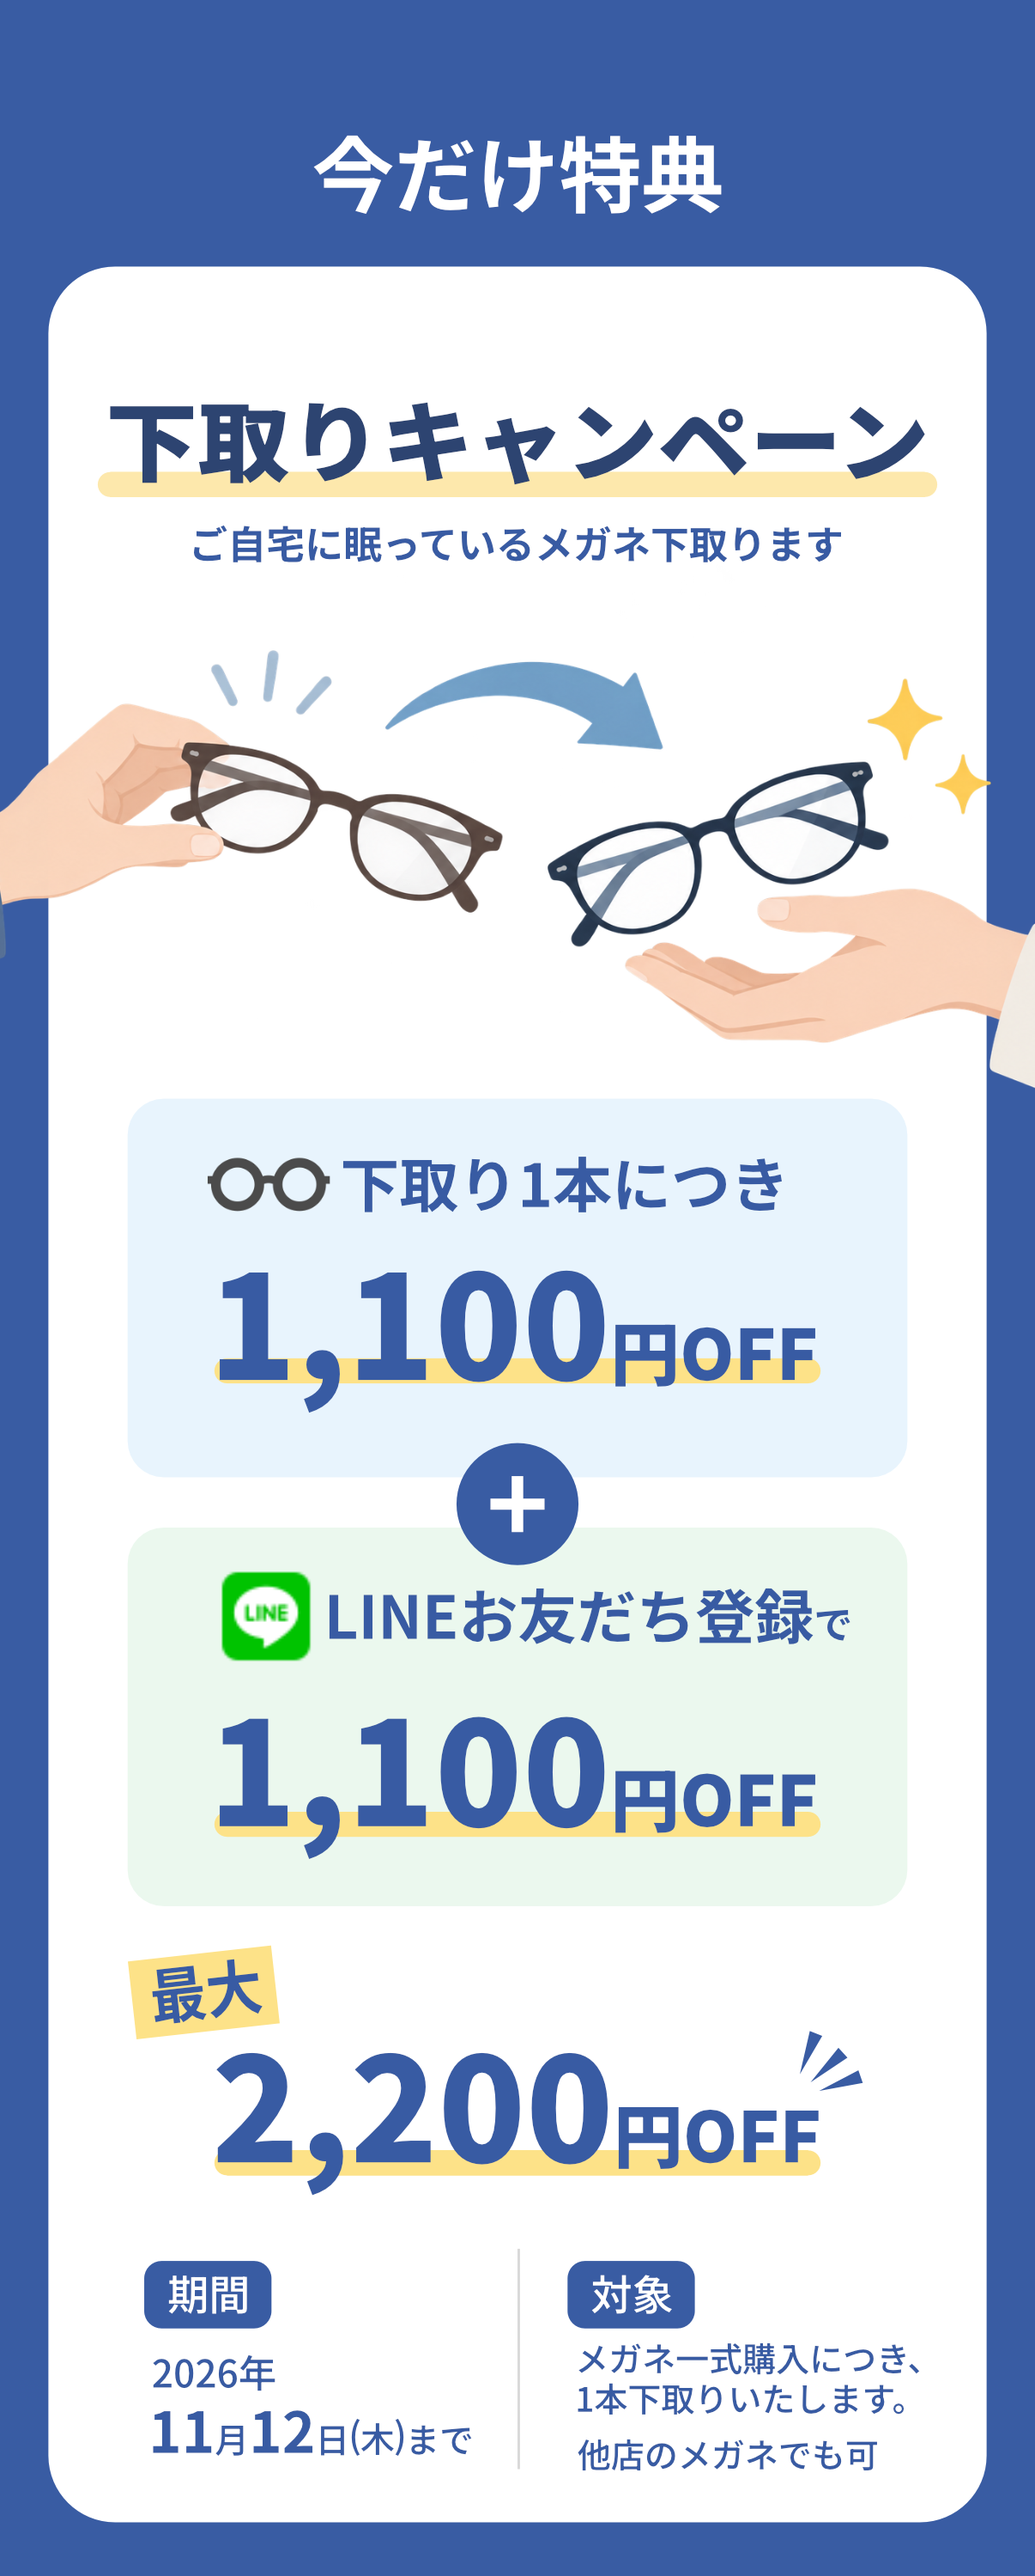
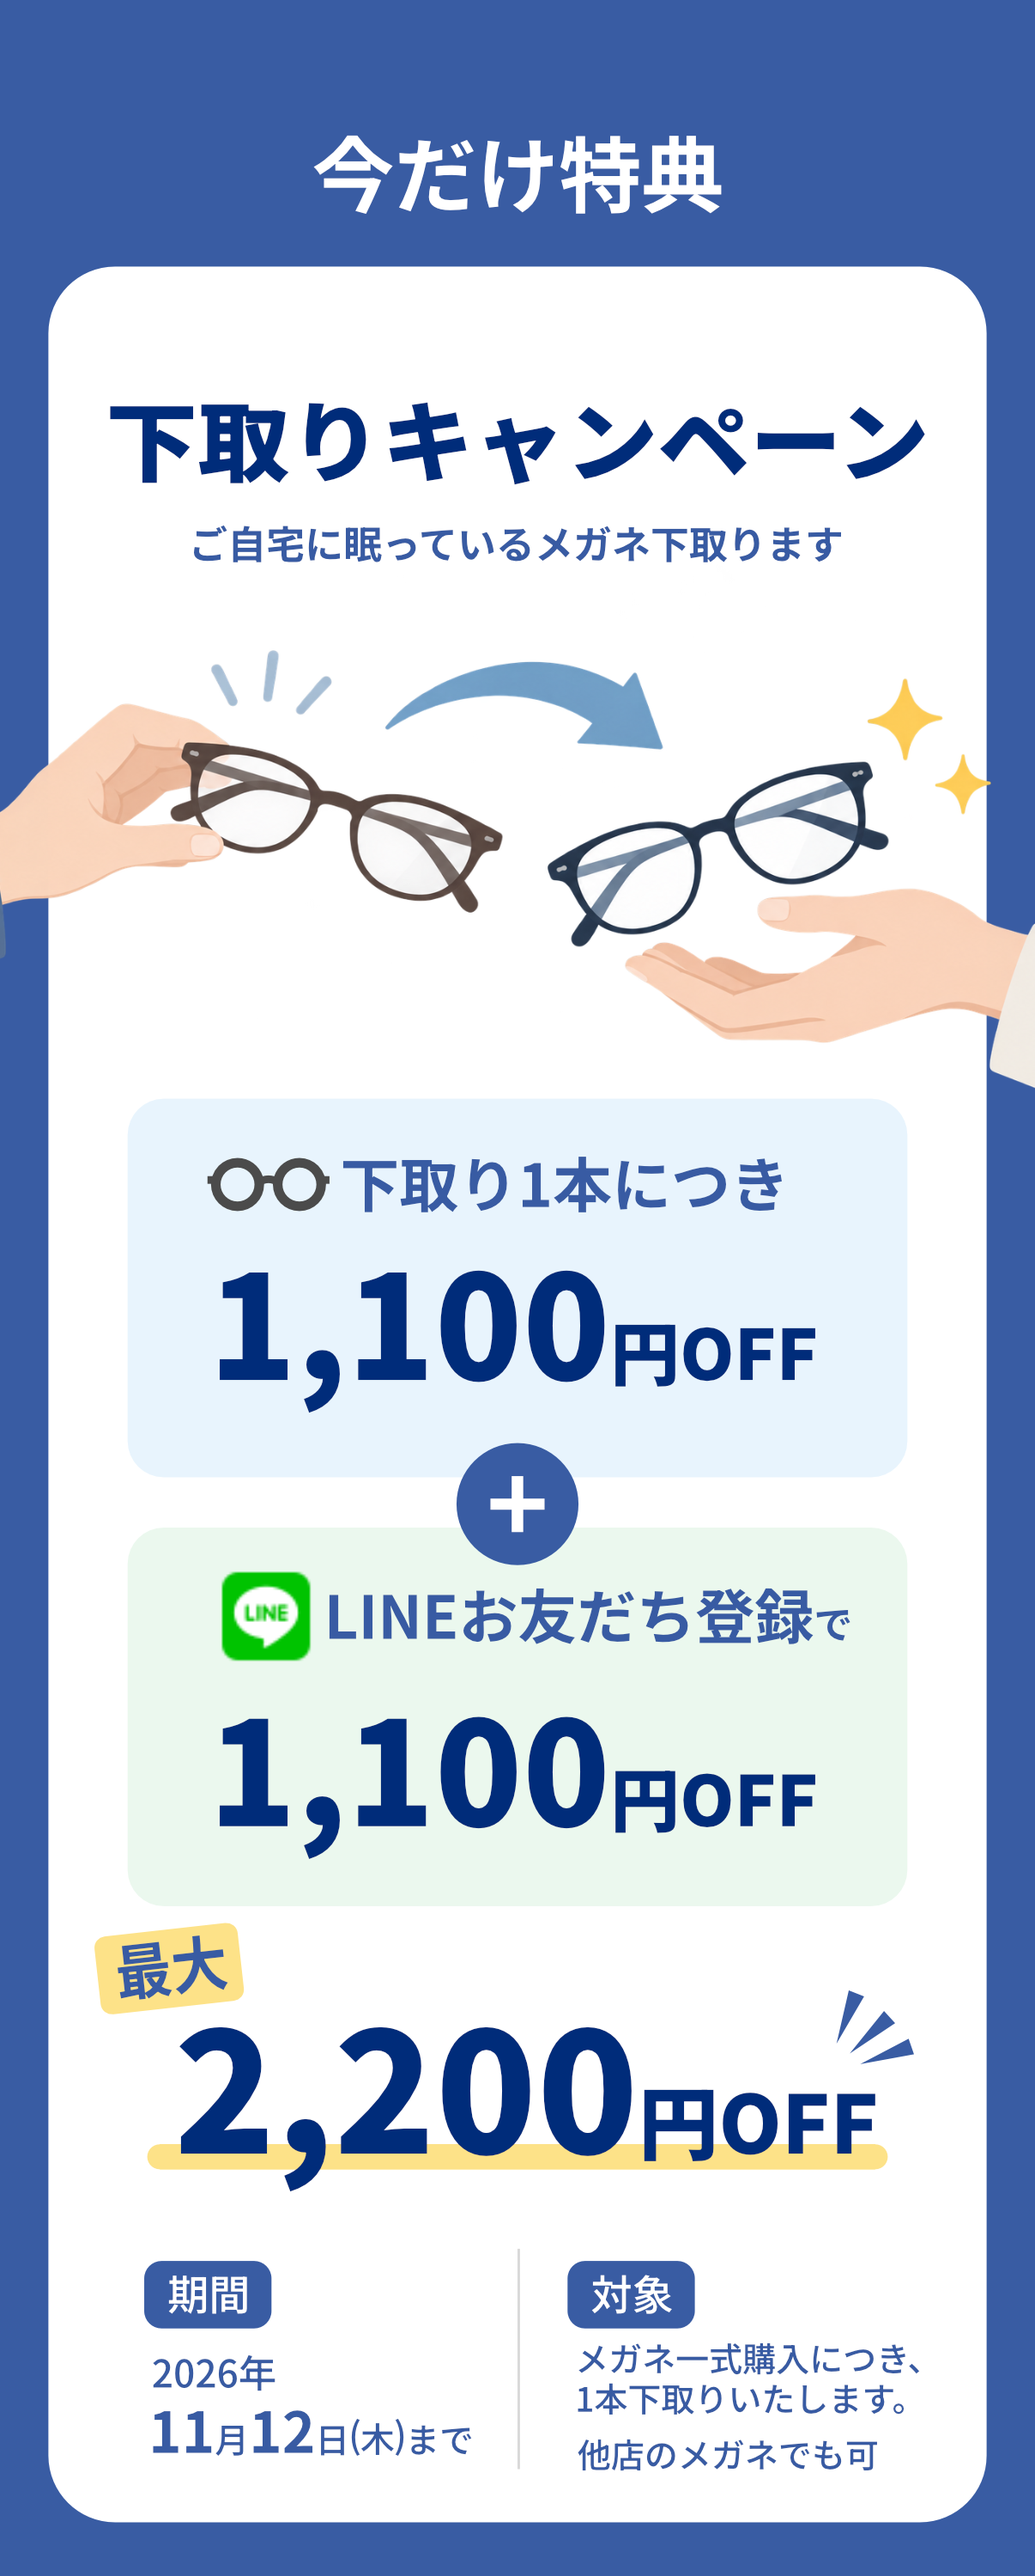
今だけ特典の画像を更新(紺を#002C7Bに統一、マーカーは最大2,200円OFFのみ、2,200を拡大)

diff --git a/wp-deploy/page-lp-shitadori2026.php b/wp-deploy/page-lp-shitadori2026.php
@@ -908,7 +908,7 @@ $lp_assets = get_stylesheet_directory_uri() . '/lp/assets/shitadori2026/img';
     </section>
 
     <section class="tokuten-section" id="sec-tokuten">
-      <img loading="lazy" decoding="async" class="tokuten-section-img reveal" src="<?php echo $lp_assets; ?>/tokuten-section.webp?v=bc10d49c" width="1206" height="3000" alt="今だけ特典 メガネの下取りキャンペーン 下取り1本につき1,100円OFF こんなメガネも下取ります(ご自宅に眠っているメガネ・古いメガネ・壊れているメガネ・他店で購入したメガネ) さらにLINEお友だち登録で1,100円OFF 期間:2026年11月12日(木)まで 詳細:メガネ一式ご購入につき1本下取りいたします。">
+      <img loading="lazy" decoding="async" class="tokuten-section-img reveal" src="<?php echo $lp_assets; ?>/tokuten-section.webp?v=88120f62" width="1206" height="3000" alt="今だけ特典 メガネの下取りキャンペーン 下取り1本につき1,100円OFF こんなメガネも下取ります(ご自宅に眠っているメガネ・古いメガネ・壊れているメガネ・他店で購入したメガネ) さらにLINEお友だち登録で1,100円OFF 期間:2026年11月12日(木)まで 詳細:メガネ一式ご購入につき1本下取りいたします。">
     </section>
 
     <section class="trade-section" id="sec-trade">
